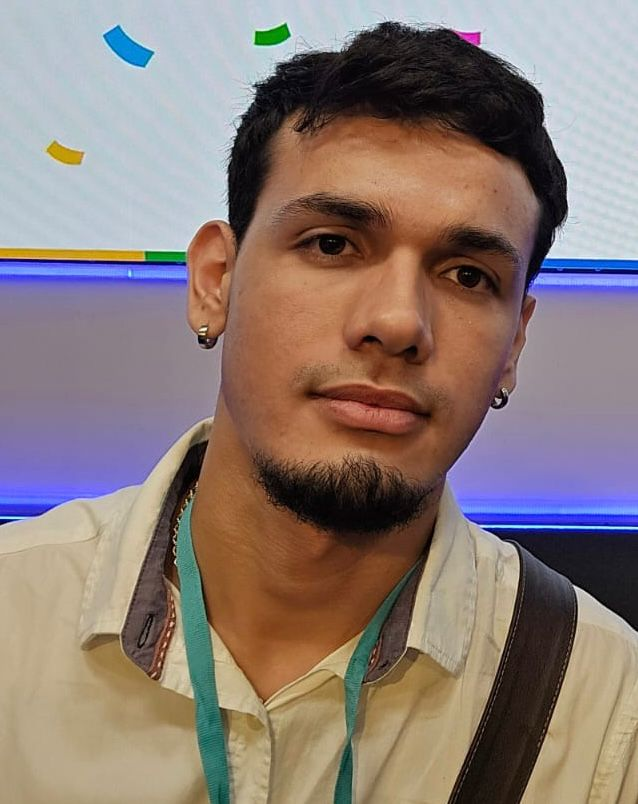
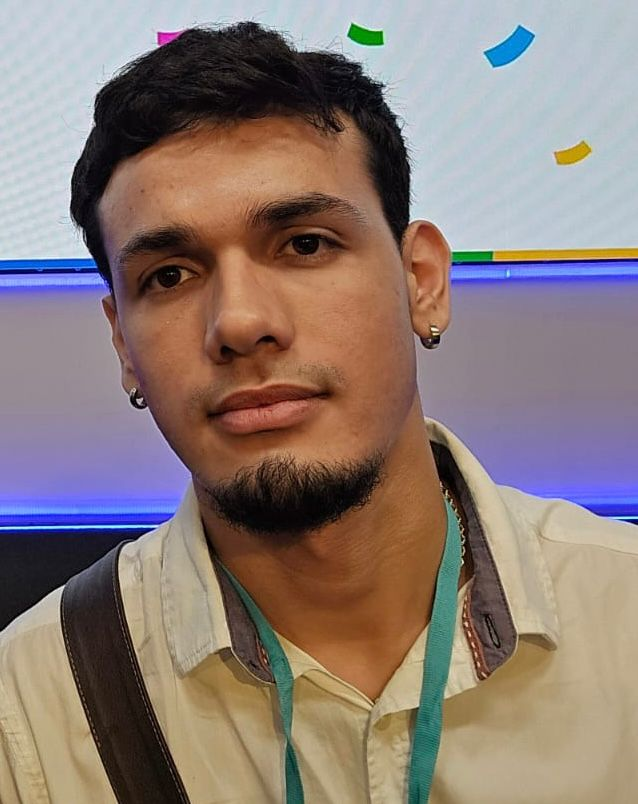
Config image for contact-me

diff --git a/script/src/core/components/home/contactMe/boxHomeContact.module.css b/script/src/core/components/home/contactMe/boxHomeContact.module.css
@@ -56,7 +56,7 @@
 
     .home-contact-box-img{
         width: 180px;
-        height: 180px;
+        height: 230px;
         margin-bottom: 3vh;
         border-radius: 50%;
     }
@@ -94,7 +94,7 @@
 
     .home-contact-box-img{
         width: 60%;
-        height: 350px;
+        height: auto;
         border-radius: 15px;
     }
     
@@ -134,7 +134,7 @@
 
     .home-contact-box-img{
         width: 60%;
-        height: 350px;  
+        height: auto;  
         border-radius: 15px; 
     }
     
@@ -174,7 +174,7 @@
 
     .home-contact-box-img{
         width: 60%;
-        height: 350px;   
+        height: auto;   
         border-radius: 15px;
     }
     

diff --git a/script/src/core/components/home/contactMe/boxHomeContact.jsx b/script/src/core/components/home/contactMe/boxHomeContact.jsx
@@ -15,7 +15,7 @@ import {
 
 export const BoxHomeContact = (valuesInput) =>{
 
-    const selfie = '/images/selfies/pvf_selfie_gibli.jpg'
+    const selfie = '/images/selfies/pvf_selfie_gcp_without_victor.jpg'
 
     const [loading, setLoading] = React.useState(false)
     const [_alert, set_Alert]   = React.useState({
